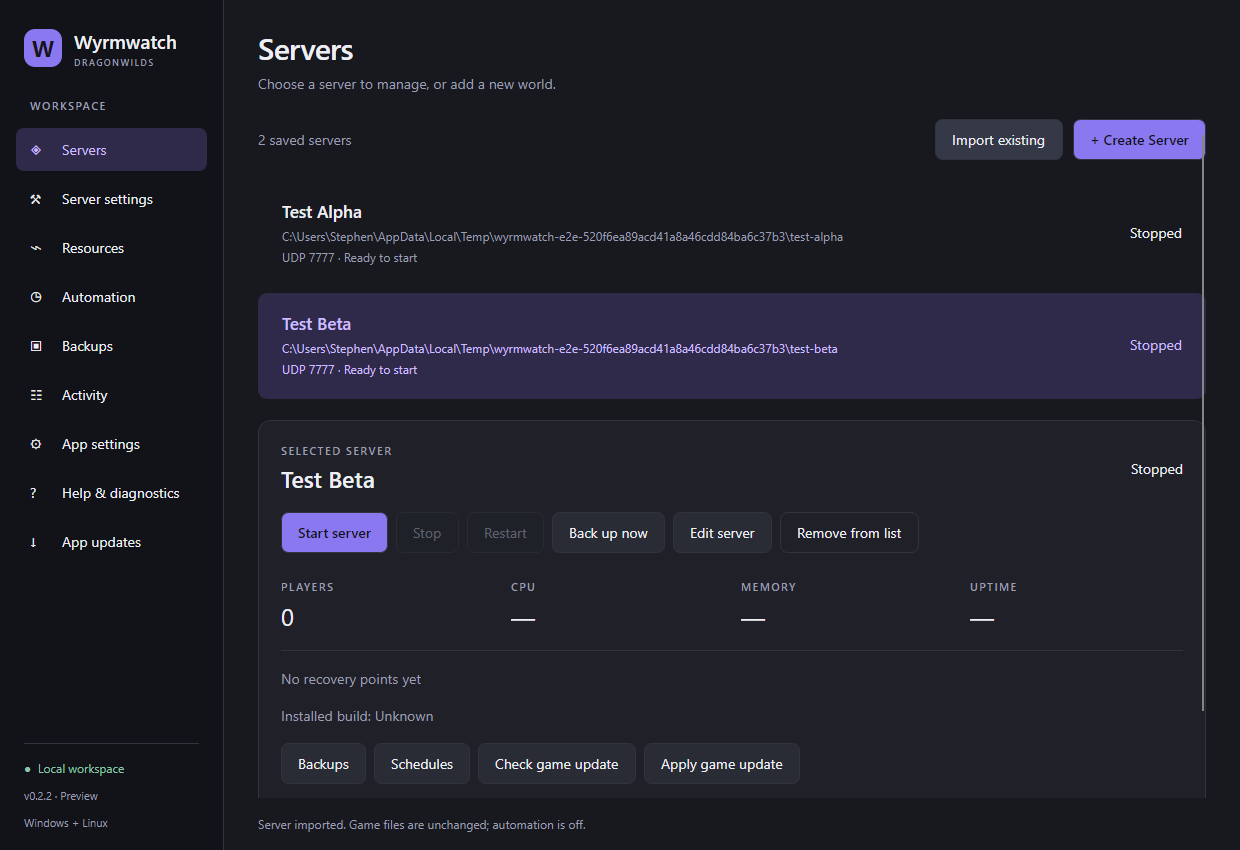
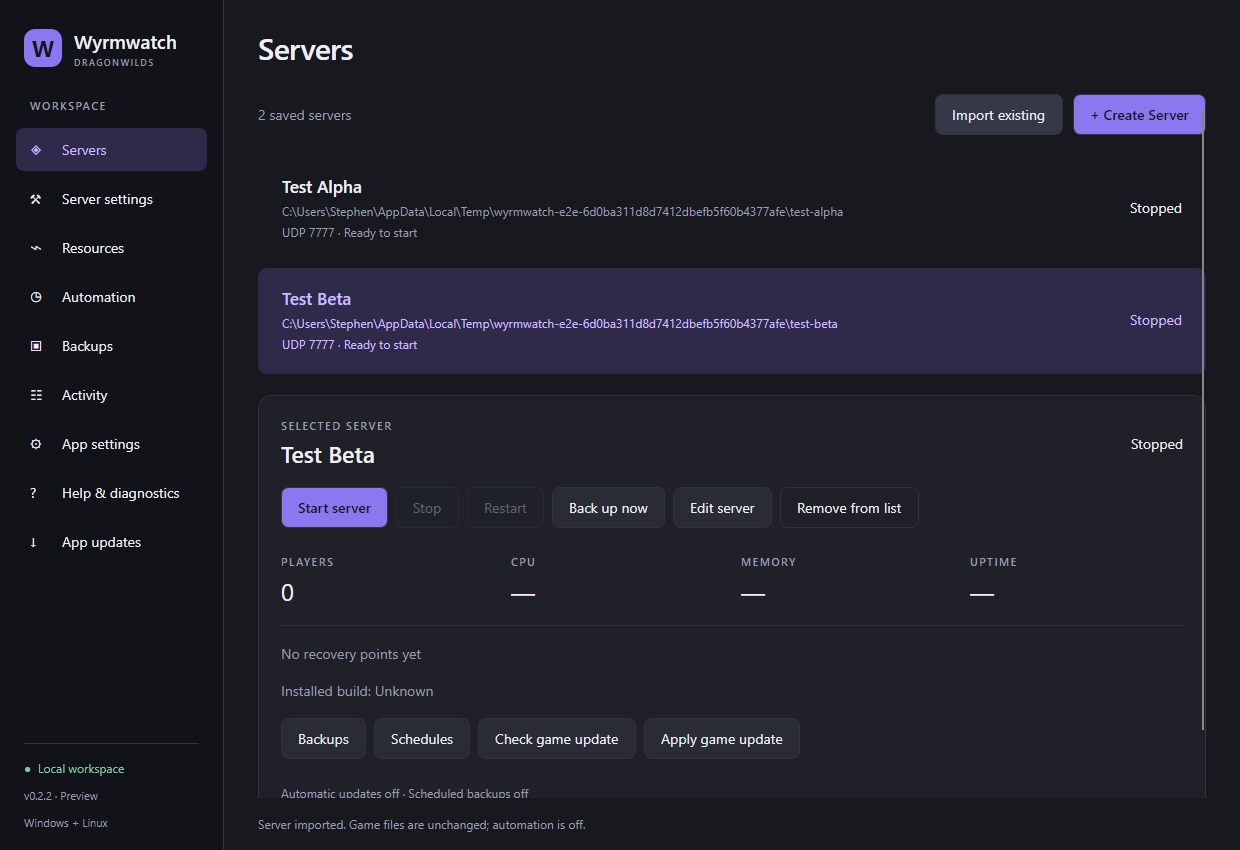
Simplify workspace copy and make save locations explicit

diff --git a/tests/Wyrmwatch.Desktop.Tests/SmokeTests.cs b/tests/Wyrmwatch.Desktop.Tests/SmokeTests.cs
@@ -29,7 +29,8 @@ public class SmokeTests
         var saved = Path.Combine(install, "RSDragonwilds", "Saved"); Directory.CreateDirectory(saved);
         var launcher = Path.Combine(install, OperatingSystem.IsWindows() ? "RSDragonwildsServer.exe" : "RSDragonwildsServer.sh");
         File.WriteAllText(launcher, "read-only import fixture, not an executable");
-        var world = Path.Combine(saved, "world.sav"); File.WriteAllText(world, "preserved world");
+        var saveGames = Path.Combine(saved, "SaveGames"); Directory.CreateDirectory(saveGames);
+        var world = Path.Combine(saveGames, "world.sav"); File.WriteAllText(world, "preserved world");
         var backup = Path.Combine(root, "backups");
         var dialog = new ImportServerDialog("", []); dialog.Show();
         try
@@ -38,13 +39,15 @@ public class SmokeTests
             var location = fields.Single(t => t.Name == "ImportLocation");
             fields.Single(t => t.Name == "ImportBackupFolder").Text = backup;
             var import = dialog.GetLogicalDescendants().OfType<Button>().Single(b => Equals(b.Content, "Import server"));
-            var confirmation = dialog.GetLogicalDescendants().OfType<CheckBox>().Single();
+            var confirmation = Field<CheckBox>(dialog, "ImportConfirmed");
             foreach (var input in new[] { install, "\"" + launcher + "\"" })
             {
                 location.Text = input;
                 Assert.False(import.IsEnabled); Assert.False(confirmation.IsChecked);
                 await dialog.ReviewAsync();
                 Assert.Equal(saved, fields.Single(t => t.Name == "ImportSavedFolder").Text);
+                Assert.True(fields.Single(t => t.Name == "ImportSavedFolder").IsReadOnly);
+                Assert.Contains("world.sav", Field<TextBlock>(dialog, "ImportDetails").Text);
                 confirmation.IsChecked = true; Assert.True(import.IsEnabled);
                 Assert.Equal("preserved world", File.ReadAllText(world));
                 Assert.Equal("read-only import fixture, not an executable", File.ReadAllText(launcher));
@@ -75,6 +78,7 @@ public class SmokeTests
             await dialog.AdvanceAsync();
             var review = Field<TextBlock>(dialog, "CreateReview").Text!;
             Assert.Contains(Path.Combine(root, "WyrmwatchServers", "carter-s-new-world"), review);
+            Assert.Contains(Path.Combine(root, "WyrmwatchServers", "carter-s-new-world", "RSDragonwilds", "Saved"), review);
             Assert.Contains("automatic updates off", review);
             Assert.DoesNotContain(Field<TextBox>(dialog, "CreateAdminPassword").Text!, review);
             dialog.Close();
@@ -196,24 +200,65 @@ public class SmokeTests
         var root = Path.Combine(Path.GetTempPath(), "wyrmwatch-ui-" + Guid.NewGuid().ToString("N"));
         var launcher = Path.Combine(root, "RSDragonwildsServer.exe");
         var saved = Path.Combine(root, "RSDragonwilds", "Saved"); Directory.CreateDirectory(saved); File.WriteAllText(launcher, "fixture");
-        var dialog = new ImportServerDialog(launcher, []);
+        var dialog = new ImportServerDialog("", []);
         dialog.Show();
         Avalonia.Threading.Dispatcher.UIThread.RunJobs();
+        Field<TextBox>(dialog, "ImportLocation").Text = launcher;
         try
         {
             await dialog.ReviewAsync();
             var controls = dialog.GetLogicalDescendants().OfType<Control>().ToArray();
             var import = controls.OfType<Button>().Single(b => Equals(b.Content, "Import server"));
-            var confirmation = controls.OfType<CheckBox>().Single();
+            var confirmation = Field<CheckBox>(dialog, "ImportConfirmed");
             Assert.False(import.IsEnabled); confirmation.IsChecked = true;
             Assert.True(import.IsEnabled, string.Join("\n", controls.OfType<TextBlock>().Select(t => t.Text)));
-            controls.OfType<TextBox>().Single(t => t.Name == "ImportSavedFolder").Text = Path.Combine(root, "missing");
+            Field<CheckBox>(dialog, "ImportCustomSaved").IsChecked = true;
+            Field<TextBox>(dialog, "ImportSavedFolder").Text = Path.Combine(root, "missing");
             Assert.False(import.IsEnabled); Assert.False(confirmation.IsChecked);
             await dialog.ReviewAsync(); confirmation.IsChecked = true; Assert.False(import.IsEnabled);
             Assert.Equal("fixture", File.ReadAllText(launcher));
         }
         finally { dialog.Close(); if (SafePaths.Within(root, Path.GetTempPath())) Directory.Delete(root, true); }
     }
+    [AvaloniaFact]
+    public async Task ImportCustomLocationIsExplicitAndNeverCreatesOrMovesSaves()
+    {
+        var root = Path.Combine(Path.GetTempPath(), "wyrmwatch-ui-" + Guid.NewGuid().ToString("N"));
+        var install = Path.Combine(root, "install"); Directory.CreateDirectory(install);
+        var launcher = Path.Combine(install, "RSDragonwildsServer.exe"); File.WriteAllText(launcher, "fixture only");
+        var saved = Path.Combine(root, "existing-data", "Saved");
+        var worlds = Path.Combine(saved, "SaveGames"); Directory.CreateDirectory(worlds);
+        var world = Path.Combine(worlds, "existing.sav"); File.WriteAllText(world, "preserve custom world");
+        var defaultSaved = Path.Combine(install, "RSDragonwilds", "Saved");
+        var backup = Path.Combine(root, "backups");
+        var dialog = new ImportServerDialog("", []); dialog.Show();
+        try
+        {
+            Field<TextBox>(dialog, "ImportLocation").Text = install;
+            Field<TextBox>(dialog, "ImportBackupFolder").Text = backup;
+            await dialog.ReviewAsync();
+            Assert.True(Field<TextBox>(dialog, "ImportSavedFolder").IsReadOnly);
+            Assert.False(Field<Button>(dialog, "ImportAccept").IsEnabled);
+            Assert.False(Directory.Exists(defaultSaved));
+            var custom = Field<CheckBox>(dialog, "ImportCustomSaved"); custom.IsChecked = true;
+            Assert.False(Field<TextBox>(dialog, "ImportSavedFolder").IsReadOnly);
+            Field<TextBox>(dialog, "ImportSavedFolder").Text = saved;
+            await dialog.ReviewAsync();
+            Assert.Contains("existing.sav", Field<TextBlock>(dialog, "ImportDetails").Text);
+            Field<CheckBox>(dialog, "ImportConfirmed").IsChecked = true;
+            Assert.True(Field<Button>(dialog, "ImportAccept").IsEnabled);
+            custom.IsChecked = false;
+            Assert.True(Field<TextBox>(dialog, "ImportSavedFolder").IsReadOnly);
+            Assert.False(Field<Button>(dialog, "ImportAccept").IsEnabled);
+            await dialog.ReviewAsync();
+            Assert.False(Field<Button>(dialog, "ImportAccept").IsEnabled);
+            Assert.Equal("preserve custom world", File.ReadAllText(world));
+            Assert.False(Directory.Exists(defaultSaved)); Assert.False(Directory.Exists(backup));
+            Assert.Equal(2, Directory.EnumerateFiles(root, "*", SearchOption.AllDirectories).Count());
+        }
+        finally { dialog.Close(); Directory.Delete(root, true); }
+    }
+
     [AvaloniaFact]
     public void PagesThemesAndFocusedFormSurviveStatusUpdates()
     {
@@ -230,7 +275,7 @@ public class SmokeTests
             var model = (WorkspaceModel)window.DataContext!; model.Cpu = "12.3%"; model.Players = "3"; model.Status = "Online";
             Assert.Equal("Unsaved user input", field.Text);
             window.ShowPage(WorkspacePage.AppSettings);
-            var language = new Wyrmwatch.Core.LanguagePack("xx", "Test language", new() { [Localization.Key("Make yourself at home.")] = "Translated settings" });
+            var language = new Wyrmwatch.Core.LanguagePack("xx", "Test language", new() { [Localization.Key("App settings")] = "Translated settings" });
             var languages = window.FindControl<ComboBox>("LanguagePicker")!; languages.ItemsSource = new[] { Localization.English, language }; languages.SelectedIndex = 1;
             Assert.Equal("Translated settings", model.PageTitle); Assert.Equal("Unsaved user input", field.Text);
             languages.SelectedIndex = 0;
@@ -272,6 +317,7 @@ public class SmokeTests
             Assert.False(window.FindControl<StackPanel>("SettingsPage")!.IsVisible);
             var owner = window.FindControl<TextBox>("OwnerId")!; owner.Text = "unsaved owner";
             Assert.Contains(window.FindControl<StackPanel>("ServerSettingsPage")!, owner.GetLogicalAncestors());
+            Assert.True(window.FindControl<TextBox>("DataFolder")!.IsReadOnly);
             Assert.DoesNotContain(window.FindControl<StackPanel>("SettingsPage")!, owner.GetLogicalAncestors());
             window.ShowPage(WorkspacePage.AppSettings); Assert.False(model.ShowServerPicker);
             window.ShowPage(WorkspacePage.ServerSettings); Assert.True(model.ShowServerPicker); Assert.Equal("unsaved owner", owner.Text);

diff --git a/src/Wyrmwatch.Desktop/ImportServerDialog.cs b/src/Wyrmwatch.Desktop/ImportServerDialog.cs
@@ -10,9 +10,10 @@ namespace Wyrmwatch.Desktop;
 public sealed class ImportServerDialog : Window
 {
     private readonly TextBox location = new() { Name = "ImportLocation" };
-    private readonly TextBox saved = new() { Name = "ImportSavedFolder" };
+    private readonly TextBox saved = new() { Name = "ImportSavedFolder", IsReadOnly = true };
+    private readonly CheckBox customSaved = new() { Name = "ImportCustomSaved", Content = "Use a different existing Saved folder" };
     private readonly TextBox backups = new() { Name = "ImportBackupFolder" };
-    private readonly TextBlock details = new() { Name = "ImportDetails", Text = "Choose the folder containing RSDragonwildsServer, then review its save location.", TextWrapping = TextWrapping.Wrap };
+    private readonly TextBlock details = new() { Name = "ImportDetails", Text = "Choose the folder containing RSDragonwildsServer.", TextWrapping = TextWrapping.Wrap };
     private readonly CheckBox confirmed = new() { Name = "ImportConfirmed", Content = "This is the correct Saved folder for this server." };
     private readonly Button import = new() { Name = "ImportAccept", Content = "Import server", Classes = { "primary" }, IsEnabled = false };
     private readonly Func<ServerProfile, Task>? submit;
@@ -35,7 +36,7 @@ public sealed class ImportServerDialog : Window
         review = new Button { Name = "ImportReview", Content = "Review folders" };
         cancel = new Button { Name = "ImportCancel", Content = "Cancel" };
         var browseInstallation = new Button { Content = "Choose server folder…" };
-        var browseSaved = new Button { Content = "Browse…" };
+        var browseSaved = new Button { Name = "ImportBrowseSaved", Content = "Locate existing Saved folder…", IsVisible = false };
         var browseBackups = new Button { Content = "Browse…" };
         browseSaved.Click += async (_, _) => await BrowseAsync(saved, "Choose this server's existing Saved folder");
         browseBackups.Click += async (_, _) => await BrowseAsync(backups, "Choose a backup folder outside all server folders");
@@ -43,7 +44,14 @@ public sealed class ImportServerDialog : Window
         review.Click += async (_, _) => await ReviewAsync();
         cancel.Click += (_, _) => Close();
         import.Click += async (_, _) => await SubmitAsync();
-        location.PropertyChanged += (_, change) => { if (change.Property == TextBox.TextProperty) { saved.Text = ""; InvalidateReview(); } };
+        location.PropertyChanged += (_, change) => { if (change.Property == TextBox.TextProperty) { customSaved.IsChecked = false; saved.Text = ""; InvalidateReview(); } };
+        customSaved.IsCheckedChanged += (_, _) =>
+        {
+            var enabled = customSaved.IsChecked == true;
+            saved.IsReadOnly = !enabled; browseSaved.IsVisible = enabled;
+            if (!enabled) saved.Text = "";
+            InvalidateReview();
+        };
         saved.PropertyChanged += (_, change) => { if (change.Property == TextBox.TextProperty && !fillingSaved) InvalidateReview(); };
         backups.PropertyChanged += (_, change) => { if (change.Property == TextBox.TextProperty) InvalidateReview(); };
         confirmed.IsCheckedChanged += (_, _) => import.IsEnabled = !working && reviewed is not null && confirmed.IsChecked == true;
@@ -51,11 +59,16 @@ public sealed class ImportServerDialog : Window
         {
             Margin = new Thickness(28, 28, 28, 12), Spacing = 14, Children =
             {
-                new TextBlock { Text = "Bring your existing world", FontSize = 24, FontWeight = FontWeight.SemiBold },
-                new TextBlock { Text = "Connect in place. Your installation, saves, and game settings stay where they are. Automatic updates and backups start off.", TextWrapping = TextWrapping.Wrap },
+                new TextBlock { Text = "Import existing server", FontSize = 24, FontWeight = FontWeight.SemiBold },
+                new TextBlock { Text = "Adds the server to your list without moving files or starting it.", TextWrapping = TextWrapping.Wrap },
                 new TextBlock { Text = "Server installation folder or launcher path" }, location, browseInstallation,
-                new TextBlock { Text = "Paste a folder or launcher path into the field above. Reviewing reads files without running the launcher.", TextWrapping = TextWrapping.Wrap, Classes = { "muted" } },
-                new TextBlock { Text = "Save-data folder (Saved)" }, saved, browseSaved,
+                new TextBlock { Text = "Save-data folder (Saved)" }, saved,
+                new Expander { Name = "ImportAdvanced", Header = "Advanced save location", HorizontalAlignment = HorizontalAlignment.Stretch, Content = new StackPanel { Spacing = 10, Children =
+                {
+                    customSaved,
+                    new TextBlock { Text = "Use this only if the server already saves elsewhere. This does not move saves or change where the game writes them.", TextWrapping = TextWrapping.Wrap, Classes = { "muted" } },
+                    browseSaved
+                } } },
                 new TextBlock { Text = "Backup destination" }, backups, browseBackups,
                 review, details, confirmed
             }
@@ -86,22 +99,30 @@ public sealed class ImportServerDialog : Window
         if (working || finished) return;
         InvalidateReview(); var current = revision;
         var selectedLocation = location.Text?.Trim() ?? "";
-        var data = saved.Text?.Trim() ?? ""; var backup = backups.Text?.Trim() ?? "";
+        var useCustom = customSaved.IsChecked == true;
+        var data = useCustom ? saved.Text?.Trim() ?? "" : ""; var backup = backups.Text?.Trim() ?? "";
         try
         {
             working = true; body.IsEnabled = false; review.IsEnabled = cancel.IsEnabled = false;
             details.Text = "Reading server folders…";
-            var profile = await Task.Run(() =>
+            if (useCustom && string.IsNullOrEmpty(data)) throw new ArgumentException("Choose the server's existing Saved folder.");
+            var result = await Task.Run(() =>
             {
                 var launcher = ExistingServerImport.ResolveLauncher(selectedLocation);
                 var savedPath = string.IsNullOrEmpty(data) ? Path.Combine(Path.GetDirectoryName(launcher)!, "RSDragonwilds", "Saved") : data;
                 var candidate = ExistingServerImport.Inspect(launcher, savedPath, backup);
-                ServerConnections.Validate(candidate, connections); return candidate;
+                ServerConnections.Validate(candidate, connections);
+                var saveGames = Path.Combine(candidate.SavedPath, "SaveGames");
+                SafePaths.NoLinks(saveGames);
+                var worlds = Directory.Exists(saveGames) ? Directory.EnumerateFiles(saveGames, "*.sav").Select(Path.GetFileName).Order().Take(6).ToArray() : [];
+                return (Profile: candidate, Worlds: worlds);
             });
             if (current != revision) return;
-            if (string.IsNullOrEmpty(data)) { fillingSaved = true; saved.Text = profile.SavedPath; fillingSaved = false; }
+            var profile = result.Profile;
+            fillingSaved = true; saved.Text = profile.SavedPath; fillingSaved = false;
             reviewed = profile;
-            details.Text = $"{profile.Name} · Port {profile.Port}\nLauncher: {profile.Launcher}\nSave data: {profile.SavedPath}\nAutomation: off\nImporting does not start or stop the server.";
+            var worldsText = result.Worlds.Length == 0 ? "No .sav files found. Starting may create a new world." : "World saves: " + string.Join(", ", result.Worlds);
+            details.Text = $"{profile.Name} · Port {profile.Port}\n{worldsText}\nAutomation: off";
         }
         catch (Exception error) when (error is IOException or ArgumentException or UnauthorizedAccessException)
         { if (current == revision) details.Text = error.Message; }
@@ -119,7 +140,7 @@ public sealed class ImportServerDialog : Window
             details.Text = "Adding this server to Wyrmwatch…";
             await submit(reviewed);
             finished = true; import.Content = "Done"; cancel.IsVisible = false;
-            details.Text = $"{reviewed.Name} is now in Servers.\nYour game files were unchanged. No game process was started or stopped.\nAutomatic updates and backups are off.";
+            details.Text = $"{reviewed.Name} added to Servers.\nAutomatic updates and backups are off.";
         }
         catch (Exception error) { details.Text = "Import did not finish: " + error.Message + "\nYour entries are kept. Review the folders again, then retry."; reviewed = null; confirmed.IsChecked = false; }
         finally { working = false; body.IsEnabled = !finished; cancel.IsEnabled = true; import.IsEnabled = finished; }

diff --git a/src/Wyrmwatch.Desktop/MainWindow.axaml.cs b/src/Wyrmwatch.Desktop/MainWindow.axaml.cs
@@ -68,9 +68,8 @@ public partial class MainWindow : Window
         var index = Navigation.SelectedIndex; if (index < 0 || index >= pages.Length) return;
         for (var i = 0; i < pages.Length; i++) pages[i].IsVisible = i == index;
         if (PageScroll is not null) PageScroll.Offset = default;
-        string[] titles = ["Servers", "Server settings", "Room to breathe.", "Set it. Let it run.", "A way back, always.", "Every step, accounted for.", "Make yourself at home.", "A little guidance.", "Keep Wyrmwatch current."];
-        string[] descriptions = ["Choose a server to manage, or add a new world.", "Folders, access and game configuration for the selected server.", "Live CPU, memory, and storage for your selected server.", "Game updates and backups for the selected server.", "Your saves and settings, backed up and verified.", "Updates, backups, and the details in between.", "Appearance and desktop preferences shared across your servers.", "Setup help and a closer look under the hood.", "Verified downloads, with your previous version kept close."];
-        model.PageTitle = Localization.Text(titles[index]); model.PageSubtitle = Localization.Text(descriptions[index]);
+        string[] titles = ["Servers", "Server settings", "Resources", "Automation", "Backups", "Activity", "App settings", "Help & diagnostics", "App updates"];
+        model.PageTitle = Localization.Text(titles[index]);
         model.ShowServerPicker = (WorkspacePage)index is not (WorkspacePage.Servers or WorkspacePage.AppSettings or WorkspacePage.Help or WorkspacePage.AppUpdates);
     }
     private async void ServerSelected(object? sender, SelectionChangedEventArgs e)
@@ -175,7 +174,7 @@ public partial class MainWindow : Window
     private void UpdateScheduleLabels()
     {
         var p = model.SelectedProfile; if (p is null) return; var schedule = service?.Schedule(p.Id);
-        model.AutomationSummary = p.AutoUpdate || p.AutoBackup ? $"Automatic updates {(p.AutoUpdate ? "on" : "off")} · Scheduled backups {(p.AutoBackup ? "on" : "off")}" : "Automation is off · you're in control";
+        model.AutomationSummary = $"Automatic updates {(p.AutoUpdate ? "on" : "off")} · Scheduled backups {(p.AutoBackup ? "on" : "off")}";
         model.NextUpdate = p.AutoUpdate ? schedule?.NextUpdate?.LocalDateTime.ToString("MMM d, h:mm tt") ?? "Scheduled after saving" : "Not scheduled";
         model.NextBackup = p.AutoBackup ? "Next backup: " + (schedule?.NextBackup?.LocalDateTime.ToString("MMM d, h:mm tt") ?? "Scheduled after saving") : "Not scheduled";
     }
@@ -291,12 +290,12 @@ public partial class MainWindow : Window
         dialog.Content = new StackPanel { Margin = new Thickness(28), Spacing = 20, Children = { new TextBlock { Text = title, FontSize = 22, FontWeight = FontWeight.SemiBold }, new TextBlock { Text = message, TextWrapping = TextWrapping.Wrap }, close } };
         await dialog.ShowDialog(this);
     }
-    private async void BrowseData(object? sender, RoutedEventArgs e) { var folder = await Folder("Choose this server's Saved folder"); if (folder is not null) DataFolder.Text = folder; }
+    private void OpenDataFolder(object? sender, RoutedEventArgs e) { if (model.SelectedProfile is { } p) OpenPath(p.SavedPath); }
     private async void BrowseBackups(object? sender, RoutedEventArgs e) { var folder = await Folder("Choose a backup folder outside the server"); if (folder is not null) BackupFolder.Text = folder; }
     private async void SaveConnection(object? sender, RoutedEventArgs e)
     {
         if (model.SelectedProfile is not { } p || Program.Demo) return;
-        try { await ReplaceProfileAsync(p with { Name = ProfileName.Text?.Trim() ?? "", BackupPath = BackupFolder.Text?.Trim() ?? "", DataPath = DataFolder.Text?.Trim() ?? "" }); LoadProfile(); }
+        try { await ReplaceProfileAsync(p with { Name = ProfileName.Text?.Trim() ?? "", BackupPath = BackupFolder.Text?.Trim() ?? "" }); LoadProfile(); }
         catch (Exception error) { model.Notice = error.Message; }
     }
     private async void SaveAutomation(object? sender, RoutedEventArgs e)

diff --git a/src/Wyrmwatch.Desktop/CreateServerDialog.cs b/src/Wyrmwatch.Desktop/CreateServerDialog.cs
@@ -50,23 +50,22 @@ public sealed class CreateServerDialog : Window
         regenerate.Click += (_, _) => admin.Text = ServerCreationPlan.GeneratePassword();
         pages =
         [
-            Page("Make room for a new world",
-                Hint("Wyrmwatch will download the dedicated server and prepare its settings. Have an existing world? Cancel and choose Import existing server."),
-                Field("Server name", serverName, "The name shown in your saved servers list."),
+            Page("World & owner",
+                Field("Server name", serverName),
                 Field("World name", world, "Players search for this exact name in the game's Public Worlds tab."),
                 Field("Owner Player ID · required", owner, "Open Dragonwilds → Settings. Scroll to the bottom and use Copy beside your Player ID. This is not your Steam ID.")),
             Page("Folders & access",
-                Field("Install parent folder", parent, "A populated parent such as C:\\Games is fine. A separate child folder below will hold this server."),
+                Field("Install parent folder", parent, "Choose a parent such as C:\\Games. The new folder below will contain the server and its saves."),
                 Browse(parent, "Choose the parent folder for the new server"),
-                Field("New server folder name", folder, "Use a new name to keep each server's installation and saves separate."),
-                Field("Backup parent folder", backupParent, "Backups use a matching child folder here. Scheduled backups start off."),
+                Field("New server folder name", folder, "This folder must not already exist."),
+                Field("Backup parent folder", backupParent, "Backups go in a matching child folder, separate from the server."),
                 Browse(backupParent, "Choose the parent folder for backups"),
                 Field("Game port · UDP", port, "7777 is the default. Internet players need this UDP port allowed through your firewall and router."),
-                Field("Admin password · generated for you", admin, "Keep this private: it grants server administration. You can view or change it later in Server settings."),
+                Field("Admin password · generated", admin, "Keep this private. You can view or change it in Server settings."),
                 regenerate,
                 Field("World password · optional", password, "Share this with players. Leave blank to allow anyone who can reach the server to join."), reveal),
-            Page("Ready to create?", summary,
-                Hint("Create Server downloads the game through SteamCMD and writes these settings. The download may take several minutes. Your world is created when you first press Start; automation starts off."))
+            Page("Review setup", summary,
+                Hint("Downloads through SteamCMD. The world is created on first start."))
         ];
         var pageGrid = new Grid(); foreach (var page in pages) pageGrid.Children.Add(page);
         var body = new StackPanel { Margin = new Thickness(28, 24, 28, 16), Spacing = 18, Children = { stepLabel, pageGrid, progress, message } };
@@ -89,7 +88,12 @@ public sealed class CreateServerDialog : Window
     }
 
     private static TextBlock Hint(string text) => new() { Text = text, TextWrapping = TextWrapping.Wrap, Classes = { "muted" }, FontSize = 13 };
-    private static StackPanel Field(string label, Control input, string help) => new() { Spacing = 6, Children = { new TextBlock { Text = label, FontWeight = FontWeight.SemiBold }, input, Hint(help) } };
+    private static StackPanel Field(string label, Control input, string? help = null)
+    {
+        var field = new StackPanel { Spacing = 6, Children = { new TextBlock { Text = label, FontWeight = FontWeight.SemiBold }, input } };
+        if (help is not null) field.Children.Add(Hint(help));
+        return field;
+    }
     private static StackPanel Page(string title, params Control[] controls)
     {
         var panel = new StackPanel { Spacing = 18 };

diff --git a/src/Wyrmwatch.Desktop/WorkspaceModel.cs b/src/Wyrmwatch.Desktop/WorkspaceModel.cs
@@ -85,8 +85,6 @@ public sealed class WorkspaceModel : INotifyPropertyChanged
     public bool ShowServerPicker { get => showServerPicker; set => Set(ref showServerPicker, value); }
     private string pageTitle = "Servers";
     public string PageTitle { get => pageTitle; set => Set(ref pageTitle, value); }
-    private string pageSubtitle = "Choose a server to manage, or add a new world.";
-    public string PageSubtitle { get => pageSubtitle; set => Set(ref pageSubtitle, value); }
     private string status = "Not connected";
     public string Status { get => status; set => Set(ref status, value); }
     private string players = "—", cpu = "—", memory = "—", uptime = "—", diskFree = "—", build = "Not checked yet", backup = "No recovery points yet", automation = "Automation is off", notice = "Ready. Connect a server to get started.", activity = "", diagnostics = "Select a server, then refresh diagnostics.", nextUpdate = "Not scheduled", nextBackup = "Not scheduled";

diff --git a/tests/Wyrmwatch.Desktop.Tests/ServerFlowsTests.cs b/tests/Wyrmwatch.Desktop.Tests/ServerFlowsTests.cs
@@ -63,6 +63,7 @@ public class ServerFlowsTests
         await Until(() => model.SelectedProfile?.Name == "Test Beta edited");
         beta = model.SelectedProfile!;
         Assert.Equal("Test Beta edited", fixture.Store.Read("settings.json", () => new ManagerSettings()).Servers.Single(p => p.Id == beta.Id).Name);
+        Assert.Equal(Path.GetDirectoryName(betaWorld), Path.Combine(beta.SavedPath, "SaveGames"));
         Assert.Equal(betaBytes, File.ReadAllBytes(betaWorld));
         await WaitState(fixture, false);
         Type(window, "GameServerName", "Beta game name edited");

diff --git a/README.md b/README.md
@@ -43,11 +43,11 @@ Automatic game updates, scheduled backups, and background operation start **off*
 ## Use an existing server
 
 1. Choose **Import existing** on Servers. Paste its installation folder into the dialog or use **Choose server folder…**. You can also paste the full launcher path (`RSDragonwildsServer.exe` on Windows, the server launch script on Linux) directly into the text field. Click **Review folders**; the launcher is read, never executed.
-2. Review the **save-data folder** and backup destination. The default is `RSDragonwilds/Saved` inside the installation. If this server uses your user-profile data, explicitly select that server's real Saved folder instead. Wyrmwatch reads the existing server name and port from that folder's configuration; it does not guess or combine unrelated player saves.
+2. Review the detected **save-data folder**, listed world saves, and backup destination. The default is `RSDragonwilds/Saved` inside the installation. For a server that already saves elsewhere, expand **Advanced save location**, enable **Use a different existing Saved folder**, and locate its actual folder. This selects existing data; it does not relocate files or change where the game writes them. Wyrmwatch reads the existing server name and port from that folder's configuration.
 3. Confirm the reviewed Saved folder and choose **Import server**, then create a manual backup. Importing only saves a connection: it does not move files, rewrite game configuration, install, launch, or stop a server. Automatic updates and backups are disabled on import, including reconnection.
 4. Enable schedules when ready. Run only one server-management application with automatic maintenance enabled for the installation.
 
-For a fresh world, choose **Create Server** on Servers. The wizard suggests server/world names, UDP port 7777, separate install and backup folders, and a generated admin password. Paste your Dragonwilds Player ID from the bottom of the in-game Settings menu; optionally set a world password for your players. You can select a populated parent such as `C:\Games`: Wyrmwatch uses a new dedicated child folder and rejects an occupied destination. Review all paths and confirm **Create Server** to download and configure the server. It stays stopped until you press **Start**. Automatic updates and scheduled backups remain off until you enable them.
+For a fresh world, choose **Create Server** on Servers. The wizard suggests server/world names, UDP port 7777, separate install and backup folders, and a generated admin password. Paste your Dragonwilds Player ID from the bottom of the in-game Settings menu; optionally set a world password for your players. You can select a populated parent such as `C:\Games`: Wyrmwatch uses a new dedicated child folder and rejects an occupied destination. Saves stay in that server's `RSDragonwilds/Saved` folder automatically; no separate save-location choice is required. Installation and save paths are read-only in Server settings. Review all paths and confirm **Create Server** to download and configure the server. It stays stopped until you press **Start**. Automatic updates and scheduled backups remain off until you enable them.
 
 A server started elsewhere can be monitored and backed up. Wyrmwatch will not send it shutdown signals without a recorded owned process identity. Stop it using its existing controls at a convenient time, then start it through Wyrmwatch for managed shutdown. No forced-stop fallback is enabled.
 
